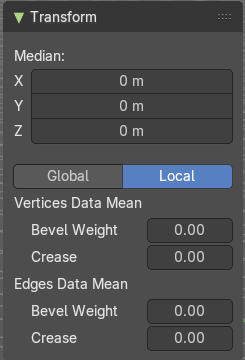
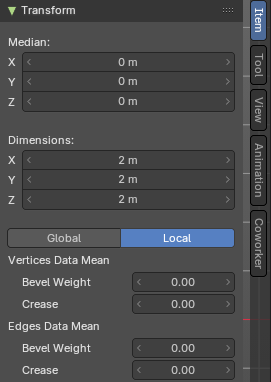
Sidebar Transform in Edit Mode: in-place captures with Dimensions (#1367)

diff --git a/docs2/content/editors/3d-viewport/all-modes/sidebar.md b/docs2/content/editors/3d-viewport/all-modes/sidebar.md
@@ -290,7 +290,7 @@ Just primitive objects like mesh and curve does have an edit mode. Non primitive
 
 ### Dimensions
 
-<!-- TODO screenshot: Edit Mode, a few vertices selected, sidebar Item tab > Transform panel showing Median and Dimensions -->
+![Dimensions in Edit Mode](/docs2/images/editors/3d-viewport/sidebar/item-tab/dimensions-edit-mode.png)
 
 Below the Median you now also see **Dimensions X / Y / Z**: how big your selection is along each axis. Type a new value to scale the selection to that size. It scales around your current pivot point.
 
